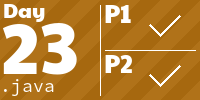
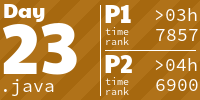
2024 day 23 complete

diff --git a/README.md b/README.md
@@ -2,9 +2,10 @@
 <body>
 <h2>Advent Of Code</h2>
 
+
 <!-- AOC TILES BEGIN -->
 <h1 align="center">
-  2024 - 44 ⭐ - Java
+  2024 - 46 ⭐ - Java
 </h1>
 <a href="src/main/java/fr/home/mikedev/aoc2024/Main01.java">
   <img src=".aoc_tiles/tiles/2024/01.png" width="161px">
@@ -71,6 +72,9 @@
 </a>
 <a href="src/main/java/fr/home/mikedev/aoc2024/Main22.java">
   <img src=".aoc_tiles/tiles/2024/22.png" width="161px">
+</a>
+<a href="src/main/java/fr/home/mikedev/aoc2024/Main23.java">
+  <img src=".aoc_tiles/tiles/2024/23.png" width="161px">
 </a>
 <h1 align="center">
   2023 - 12 ⭐ - Java
